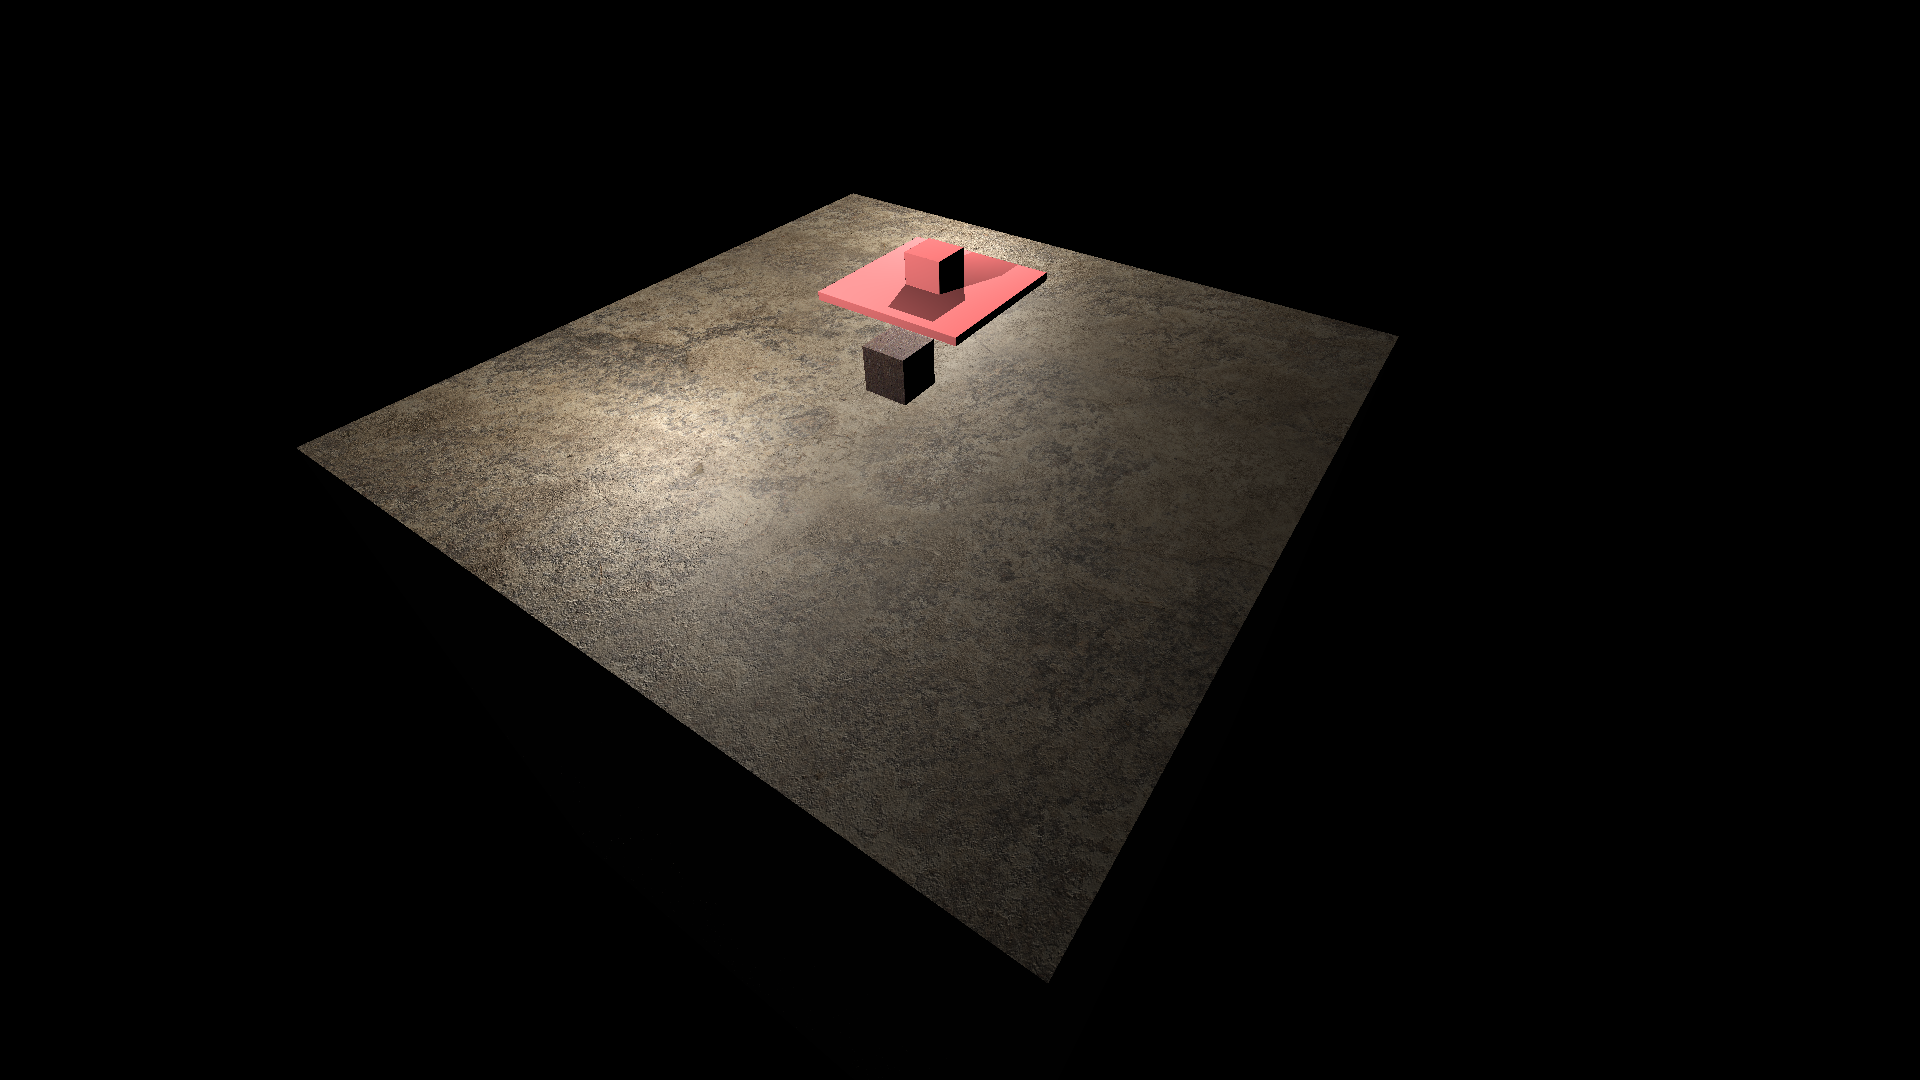
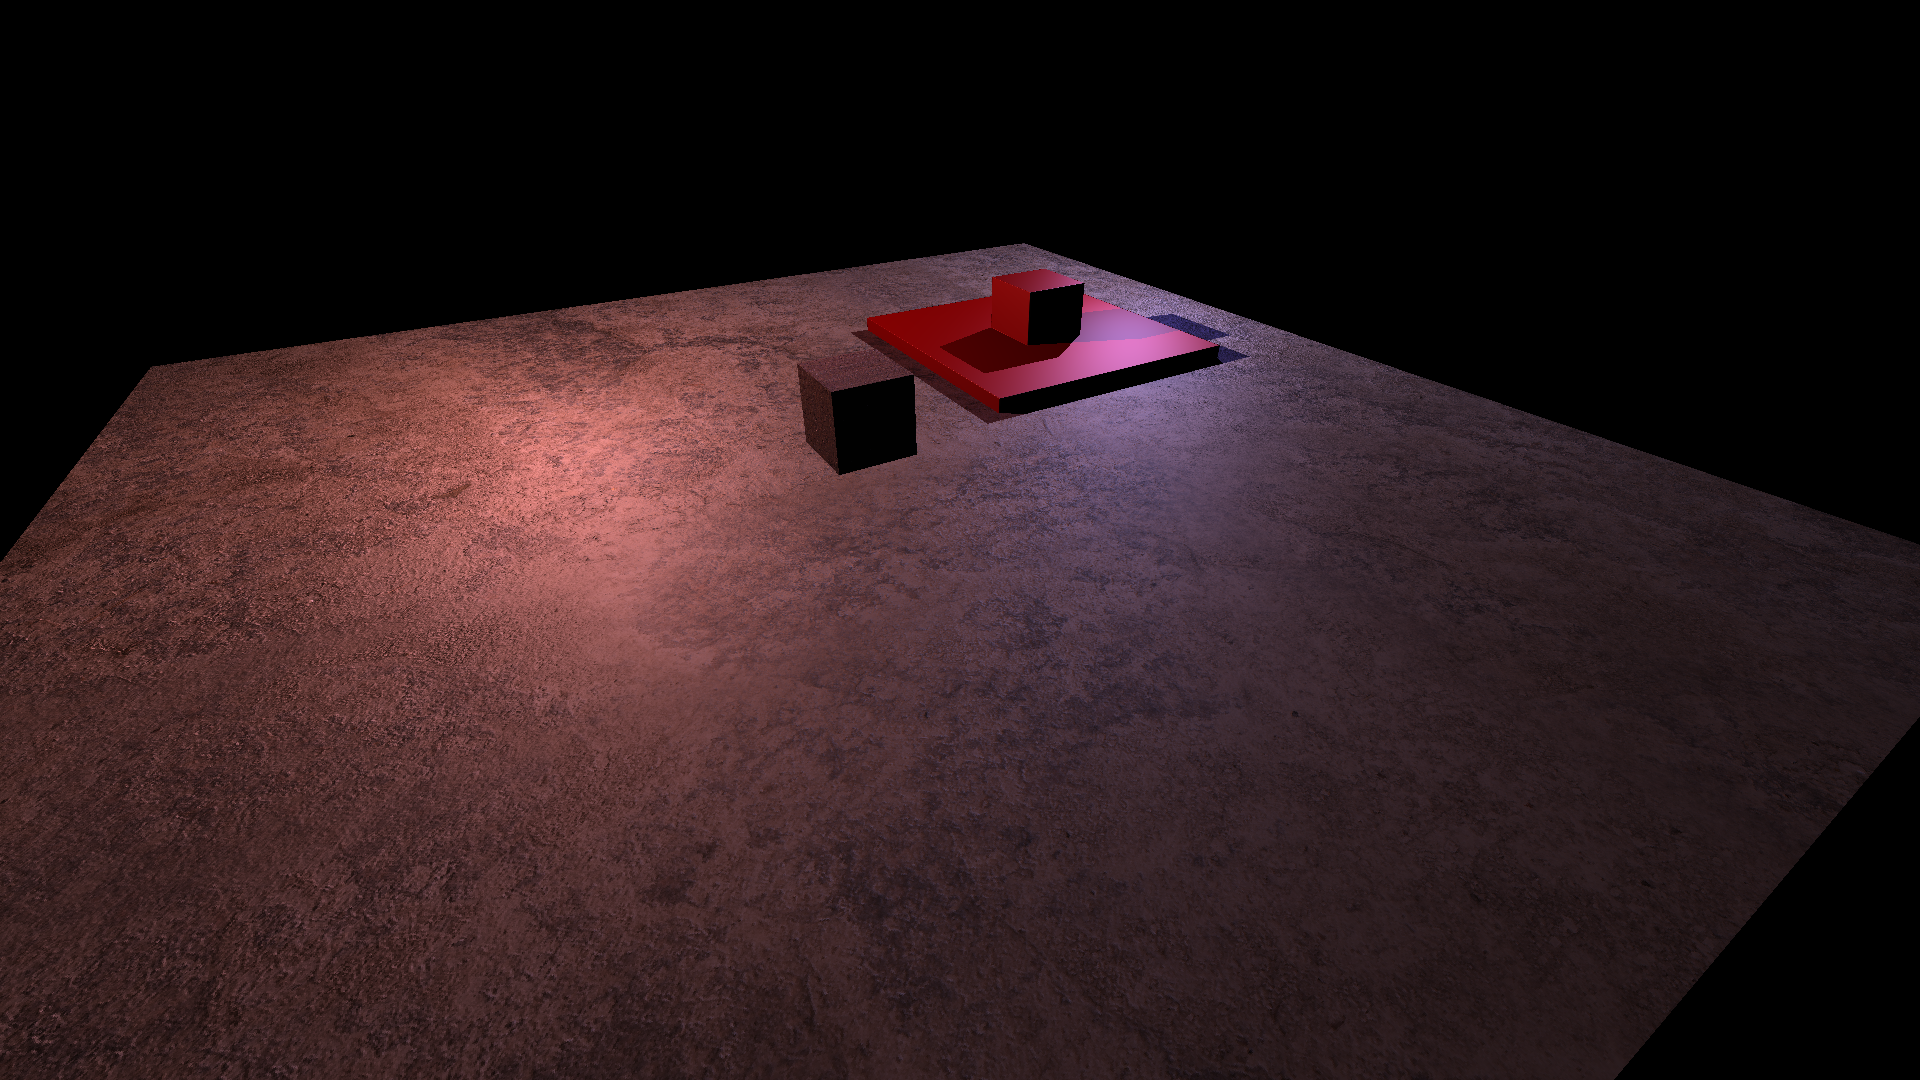
updated readme and CHANGELOG

diff --git a/src/niles/examples/Example2.java b/src/niles/examples/Example2.java
@@ -40,8 +40,8 @@ public class Example2 extends Game {
 				addEntityToScene(e2);
 				
 				
-				addLight(new Vector3f(-3,-4 ,-4), new Vector3f(1), 6);
-				addLight(new Vector3f(8,-4 ,-4), new Vector3f(1), 6);
+				addLight(new Vector3f(-3,-4 ,-4), new Vector3f(1, 0.6f, 0.6f), 6);
+				addLight(new Vector3f(8,-4 ,-4), new Vector3f(0.6f, 0.6f, 1), 6);
 			}
 			
 			@Override

diff --git a/CHANGELOG.md b/CHANGELOG.md
@@ -1,3 +1,9 @@
+### 2.1.0
+#### features
+* added glosy function to ray marcher.
+* ray marched objects can now cast shadows on rasterized objects.
+
+
 ### 2.0.0
 #### changed
 * changed the game loop.

diff --git a/README.md b/README.md
@@ -1,5 +1,5 @@
-# lwjgl_3D_library
-Current version: **2.0.0**
+# lwjgl_3D_framework
+Current version: **2.1.0**
 
 ## Screenshots
 | Ray marching| Rasterization and ray marching| 
